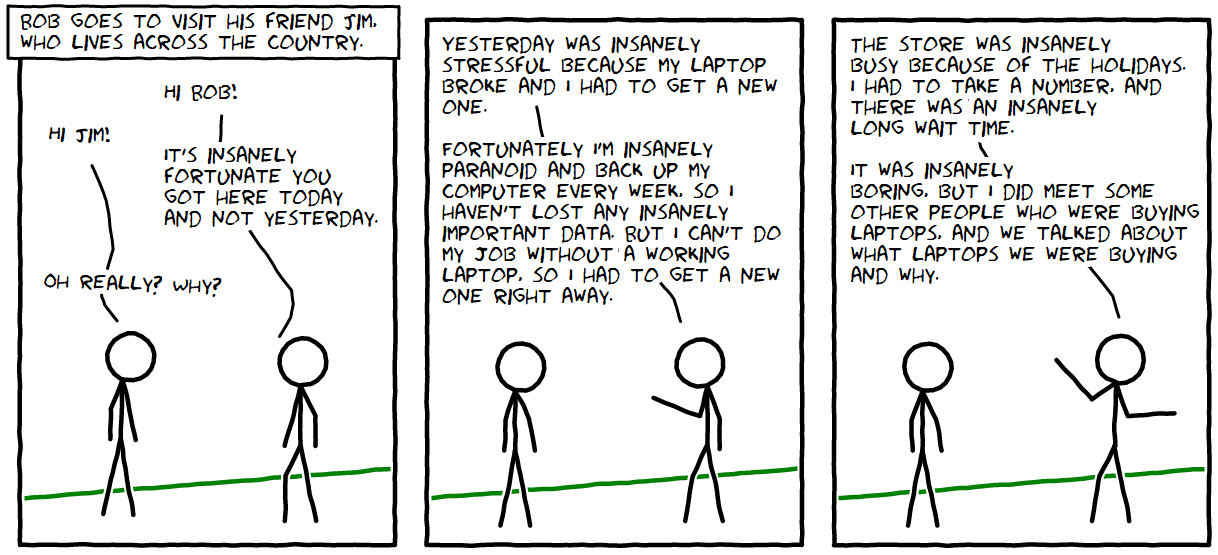
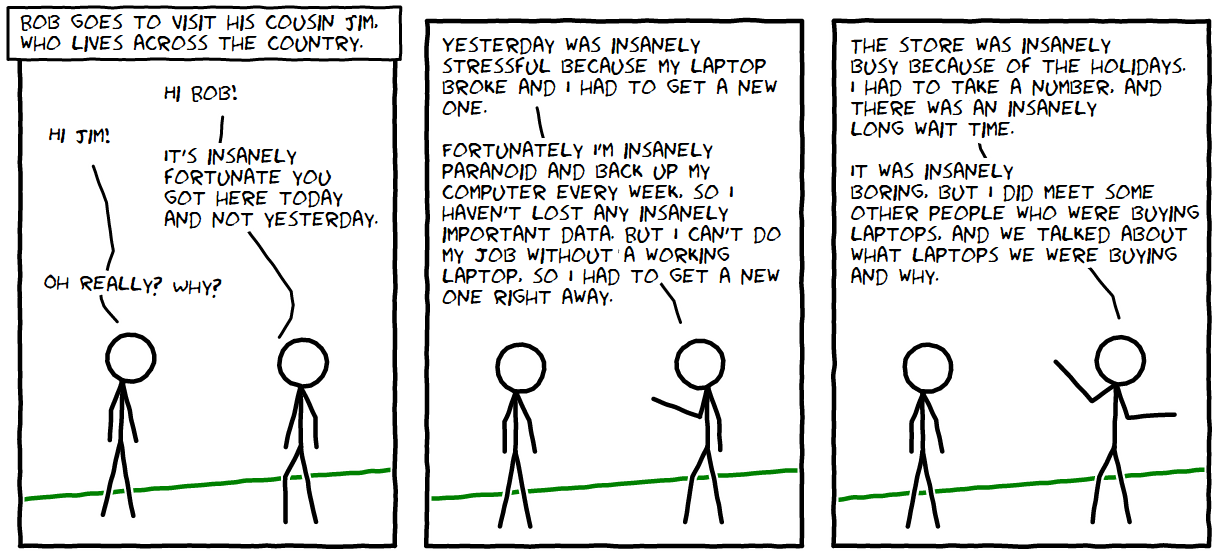
make jim a cousin

diff --git a/experiments/exp7/exp7.html b/experiments/exp7/exp7.html
@@ -1,6 +1,6 @@
 <!DOCTYPE html>
 <head>
-    <title>Friends' Purchases</title>
+    <title>A visit to a cousin</title>
 
     <!--JS-->
 
@@ -41,14 +41,16 @@
   <div class="slide" id="i0" >
     <img src="../_shared/images/cocologo.png" alt="Stanford CoCoLab" id="cocologo"></img>
     <p id="cocolab">Stanford CoCoLab</p>
-    <p id="instruct-text">You will read a short essay and then be asked some questions about it. The HIT should take ~5 minutes. Please pay attention, thanks!</p>
+    <p id="instruct-text">You will read a short comic and be asked some questions about it. The HIT should take ~3 minutes. Please pay attention, thanks!</p>
     <button id="start_button" type="button">Start Experiment</button>
     <p id="legal">Legal information: By answering the following questions, you are participating in a study being performed by cognitive scientists in the Stanford Department of Psychology. If you have questions about this research, please contact Erin Bennett at <a href="mailto://erindb@stanford.edu">erindb@stanford.edu</a> or Noah Goodman, at ngoodman@stanford.edu. You must be  at least 18 years old to participate. Your participation in this research is voluntary. You may decline to answer any or all of the following questions. You may decline further participation, at any time, without adverse consequences. Your anonymity is assured; the researchers who have requested your participation will not receive any personal information about you.</p>
   </div>
 
   <div class="slide" id="instructions">
     <h3>Instructions</h3>
-    <p>Bob is visiting his friend Jim across the country. Please read the following comic carefully and then answer the questions.</p>
+    <p>Bob is visiting his cousin Jim across the country.
+    <!-- In the town where Jim lives, people have a distinct way of speaking. -->
+    Please read the following comic carefully and then answer the questions.</p>
     <p>Thanks!</p>
     <button onclick="_s.button()">Continue</button>
   </div>

diff --git a/experiments/exp7/images/xkcd-generator.html b/experiments/exp7/images/xkcd-generator.html
@@ -8,7 +8,7 @@
 
     <scene id="scene1">
       <label t="translate(0,346)">
-        <tspan x="0" y="0em">Bob goes to visit his friend Jim,</tspan>
+        <tspan x="0" y="0em">Bob goes to visit his cousin Jim,</tspan>
         <tspan x="0" y="1em">who lives across the country.</tspan>
       </label>
       <drawing t="translate(0,31)">
